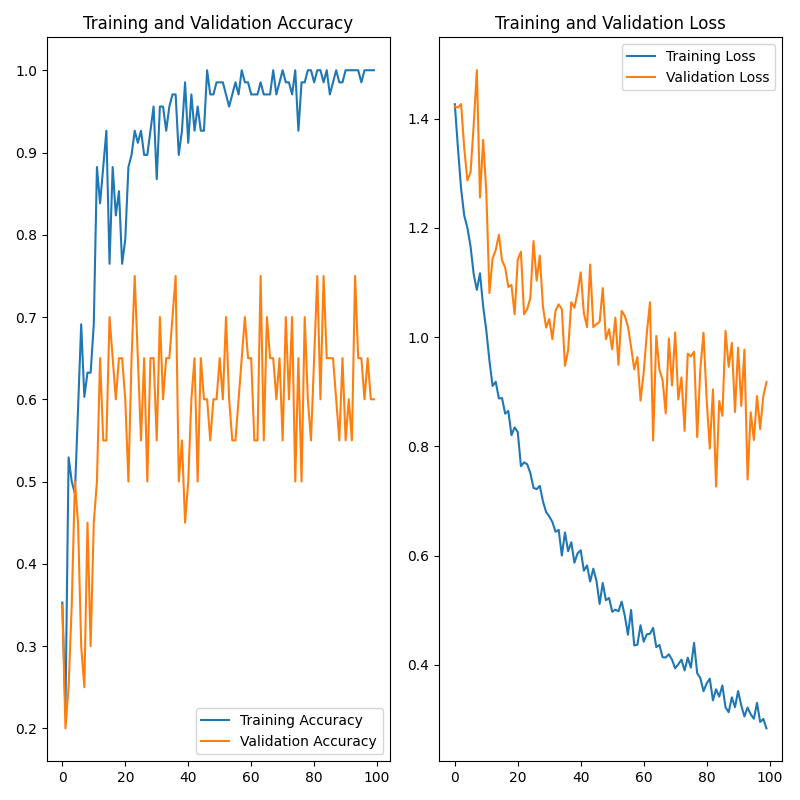
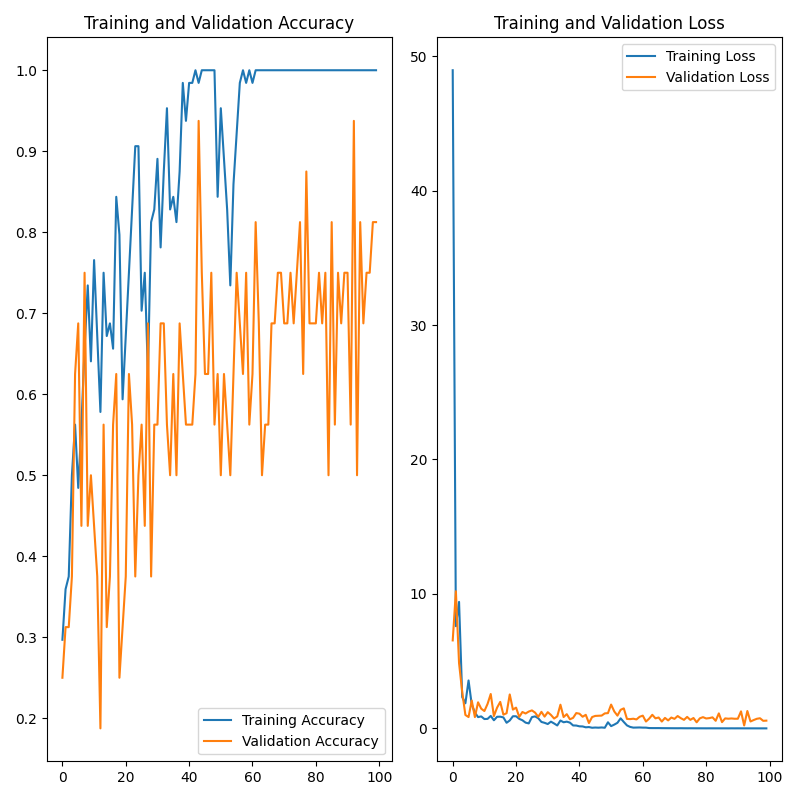
Cleaned up

diff --git a/predict.py b/predict.py
@@ -7,7 +7,7 @@ from os.path import isfile, join
 import numpy as np
 from tensorflow.keras.models import load_model
 from tensorflow.keras.preprocessing.image import img_to_array, load_img
-
+s
 # Folders Setup
 # Data Folder
 data_dir = os.path.join(os.path.dirname('.'), 'data')
@@ -172,9 +172,9 @@ print(
     f'Bulb -> TN: {true_negative_bulbasaur}, '
     f'Bulb -> FN: {false_negative_bulbasaur}, '
     f'Total Tests: {num_bulbasaur_val}, '
-    f'Accuracy: {(true_positive_bulbasaur + true_negative_bulbasaur) / (true_positive_bulbasaur + false_positive_bulbasaur + true_negative_bulbasaur + false_negative_bulbasaur)}%',
-    f'Precision: {true_positive_bulbasaur / (true_positive_bulbasaur + false_positive_bulbasaur)}%',
-    f'Recall: {true_positive_bulbasaur / (true_positive_bulbasaur + false_negative_bulbasaur)}%',
+    f'Accuracy: {(true_positive_bulbasaur + true_negative_bulbasaur) / (true_positive_bulbasaur + false_positive_bulbasaur + true_negative_bulbasaur + false_negative_bulbasaur)}, ',
+    f'Precision: {true_positive_bulbasaur / (true_positive_bulbasaur + false_positive_bulbasaur)}, ',
+    f'Recall: {true_positive_bulbasaur / (true_positive_bulbasaur + false_negative_bulbasaur)}',
     )
 print(
     f'Char -> TP: {true_positive_charmander}, '
@@ -182,9 +182,9 @@ print(
     f'Char -> TN: {true_negative_charmander}, '
     f'Char -> FN: {false_negative_charmander}, '
     f'Total Tests: {num_charmander_val}, '
-    f'Accuracy: {(true_positive_charmander + true_negative_charmander) / (true_positive_charmander + false_positive_charmander + true_negative_charmander + false_negative_charmander)}%',
-    f'Precision: {true_positive_charmander / (true_positive_charmander + false_positive_charmander)}%',
-    f'Recall: {true_positive_charmander / (true_positive_charmander + false_negative_charmander)}%',
+    f'Accuracy: {(true_positive_charmander + true_negative_charmander) / (true_positive_charmander + false_positive_charmander + true_negative_charmander + false_negative_charmander)}, ',
+    f'Precision: {true_positive_charmander / (true_positive_charmander + false_positive_charmander)}, ',
+    f'Recall: {true_positive_charmander / (true_positive_charmander + false_negative_charmander)}',
     )
 print(
     f'Pika -> TP: {true_positive_pikachu}, '
@@ -192,9 +192,9 @@ print(
     f'Pika -> TN: {true_negative_pikachu}, '
     f'Pika -> FN: {false_negative_pikachu}, '
     f'Total Tests: {num_pikachu_val}, '
-    f'Accuracy: {(true_positive_pikachu + true_negative_pikachu) / (true_positive_pikachu + false_positive_pikachu + true_negative_pikachu + false_negative_pikachu)}%',
-    f'Precision: {true_positive_pikachu / (true_positive_pikachu + false_positive_pikachu)}%',
-    f'Recall: {true_positive_pikachu / (true_positive_pikachu + false_negative_pikachu)}%',
+    f'Accuracy: {(true_positive_pikachu + true_negative_pikachu) / (true_positive_pikachu + false_positive_pikachu + true_negative_pikachu + false_negative_pikachu)}, ',
+    f'Precision: {true_positive_pikachu / (true_positive_pikachu + false_positive_pikachu)}, ',
+    f'Recall: {true_positive_pikachu / (true_positive_pikachu + false_negative_pikachu)}',
     )
 print(
     f'Squi -> TP: {true_positive_squirtle}, '
@@ -202,7 +202,7 @@ print(
     f'Squi -> TN: {true_negative_squirtle}, '
     f'Squi -> FN: {false_negative_squirtle}, '
     f'Total Tests: {num_squirtle_val}, '
-    f'Accuracy: {(true_positive_squirtle + true_negative_squirtle) / (true_positive_squirtle + false_positive_squirtle + true_negative_squirtle + false_negative_squirtle)}%',
-    f'Precision: {true_positive_squirtle / (true_positive_squirtle + false_positive_squirtle)}%',
-    f'Recall: {true_positive_squirtle / (true_positive_squirtle + false_negative_squirtle)}%',
+    f'Accuracy: {(true_positive_squirtle + true_negative_squirtle) / (true_positive_squirtle + false_positive_squirtle + true_negative_squirtle + false_negative_squirtle)}, ',
+    f'Precision: {true_positive_squirtle / (true_positive_squirtle + false_positive_squirtle)}, ',
+    f'Recall: {true_positive_squirtle / (true_positive_squirtle + false_negative_squirtle)}',
     )

diff --git a/train.py b/train.py
@@ -12,10 +12,12 @@ import tensorflow.keras.backend as backend
 # https://www.kaggle.com/thedagger/pokemon-generation-one
 # https://github.com/Akshay090/pokemon-image-dataset
 
-# From these datasets, first we get the folders "Charmander, Pikachu, Bulbasaur and Squirtle"
-# Then we get only relevant pictures, removing unrelated or noisy pictures, pictures of toys, etc.
-# We then normalized the training files, removed the background.
+# From these datasets we mixed the folders "Charmander, Pikachu, Bulbasaur and Squirtle"
+# Then we got only relevant pictures, removing unrelated or noisy pictures, pictures of toys, etc.
+# We then normalized the training files and removed the background.
 # In the output folders you can see automatically resized and grayscaled images.
+# We use a 80/20 training/validation ratio.
+# In the tests folder you would put the "target" pictures to try to predict.
 
 # Folders Setup
 # Data Folder
@@ -34,12 +36,12 @@ weights_file = os.path.join(model_dir, 'weights.h5')
 model_plot_file = os.path.join(model_dir, 'Model.png')
 
 # Basic Params
-batch_size = 4  # using a batch size of 4 we get to loss: 0.2835 - accuracy: 1.0000 - val_loss: 0.9179 - val_accuracy: 0.6000
-epochs = 100  # running 100 epochs we get to loss: 0.2835 - accuracy: 1.0000 - val_loss: 0.9179 - val_accuracy: 0.6000
+batch_size = 2
+epochs = 100
 IMG_HEIGHT = 100
 IMG_WIDTH = 100
 total_classes = 4  # 4 different types of pokemons in our dataset
-learning_rate = 0.000001  # using a learning rate of 0.000001 we get to loss: 0.2835 - accuracy: 1.0000 - val_loss: 0.9179 - val_accuracy: 0.6000
+learning_rate = 0.001
 if backend.image_data_format == "channels_last":
     input_shape = (IMG_HEIGHT, IMG_WIDTH, 1)
 else:
@@ -80,26 +82,11 @@ val_data_gen = validation_image_generator.flow_from_directory(
 
 # Generate the model
 model = Sequential([
-    Reshape((IMG_HEIGHT * IMG_WIDTH,), input_shape=(IMG_HEIGHT, IMG_WIDTH,)),
-    # Dense(units=10240, activation='relu'),
-    # Dropout(0.2),
-    # Dense(units=10240, activation='relu'),
-    # Dropout(0.2),
+    Reshape((IMG_HEIGHT * IMG_WIDTH,), input_shape=(IMG_HEIGHT, IMG_WIDTH,)),  # Converts the source to a 784 array
+    Dense(units=10240, activation='relu'),
     Dense(units=10240, activation='relu'),
     Dense(total_classes, activation='softmax')
 ])
-
-# model = Sequential([
-#     Reshape((IMG_HEIGHT * IMG_WIDTH,), input_shape=(IMG_HEIGHT, IMG_WIDTH,)),  # Converts the source to a 784 array
-#     # Flatten(input_shape=(IMG_HEIGHT, IMG_WIDTH)),  # Converts the source to a 784 array
-#     Dense(units=1024, activation='relu'),
-#     Dropout(0.2),
-#     Dense(units=512, activation='relu'),
-#     Dropout(0.2),
-#     Dense(units=256, activation='relu'),
-#     Dropout(0.2),
-#     Dense(total_classes, activation='softmax')
-# ])
 
 # Compile the model
 model.compile(optimizer=optimizers.Adam(lr=learning_rate),
